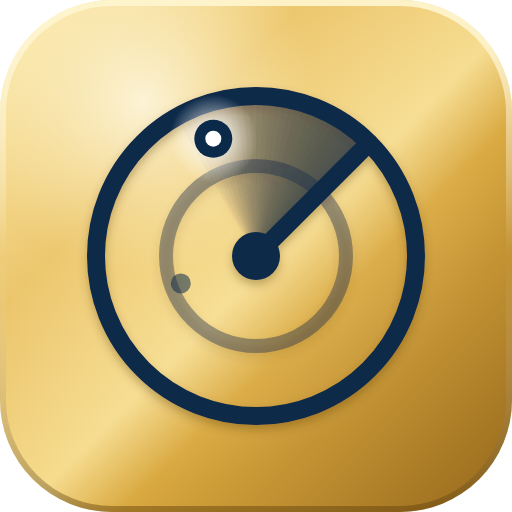
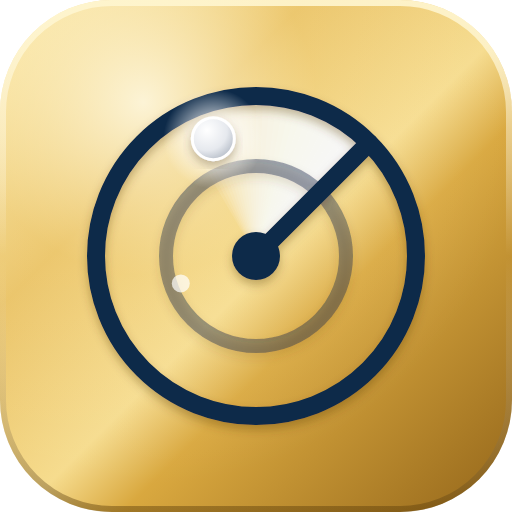
Icona: sfumatura radar e punto in bianco/argento
Claude-Session: https://claude.ai/code/session_012jX5YcR2hy4Fxh9QAEarvR

Changed region(s): [[0.3125, 0.1562, 0.6875, 0.4688], [0.3125, 0.5312, 0.375, 0.5938]]

diff --git a/docs/index.html b/docs/index.html
@@ -7,7 +7,7 @@
 <meta property="og:type" content="website">
 <meta property="og:title" content="Radar Certificati">
 <meta property="og:description" content="Cedole, rendimento, distanza dalla barriera e probabilità di tenuta di oltre 13.000 certificati quotati in Italia.">
-<meta property="og:image" content="https://radarcertificati.com/icon-512.png?v=2">
+<meta property="og:image" content="https://radarcertificati.com/icon-512.png?v=3">
 <meta property="og:url" content="https://radarcertificati.com/">
 <meta property="og:site_name" content="Radar Certificati">
 <meta property="og:locale" content="it_IT">
@@ -15,8 +15,8 @@
 <meta name="twitter:card" content="summary">
 <title>Radar Certificati · screener di certificati d'investimento</title>
 <link rel="manifest" href="manifest.webmanifest">
-<link rel="icon" href="icon.svg?v=2" type="image/svg+xml">
-<link rel="apple-touch-icon" href="apple-touch-icon.png?v=2">
+<link rel="icon" href="icon.svg?v=3" type="image/svg+xml">
+<link rel="apple-touch-icon" href="apple-touch-icon.png?v=3">
 <meta name="theme-color" content="#f0eee9" id="theme-color">
 <script>try{var t=JSON.parse(localStorage.getItem("rc-theme"));if(t==="dark"||t==="light")document.documentElement.dataset.theme=t}catch(e){}</script>
 <meta name="apple-mobile-web-app-capable" content="yes">

diff --git a/docs/sw.js b/docs/sw.js
@@ -1,7 +1,7 @@
 // Service worker minimo: rende il sito installabile e usabile offline.
 // Sempre prima la rete. I dati (data/, api/) non vengono mai salvati in cache: una copia vecchia
 // mostrata senza avviso è peggio di un errore. Il resto (pagina, icone) resta disponibile offline.
-const CACHE = "radar-v18";
+const CACHE = "radar-v19";
 self.addEventListener("install", e => self.skipWaiting());
 self.addEventListener("activate", e => e.waitUntil(
   caches.keys().then(ks => Promise.all(ks.filter(k => k !== CACHE).map(k => caches.delete(k)))).then(() => self.clients.claim())
